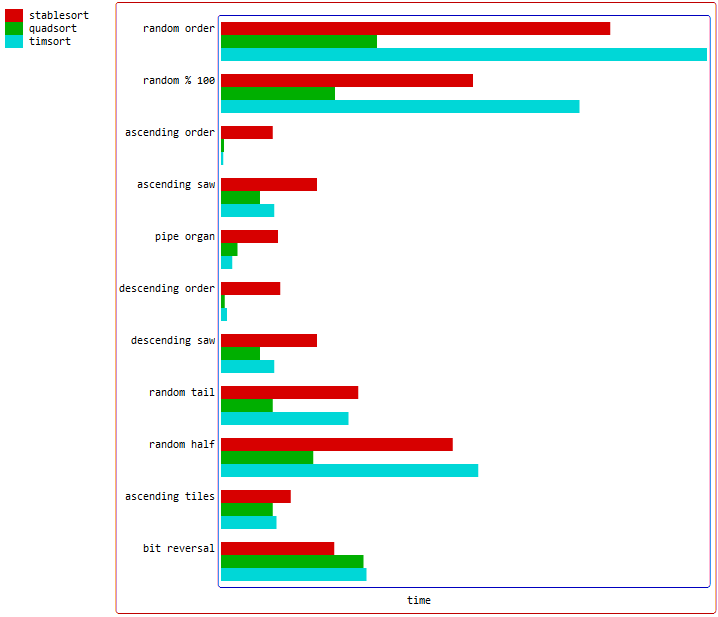
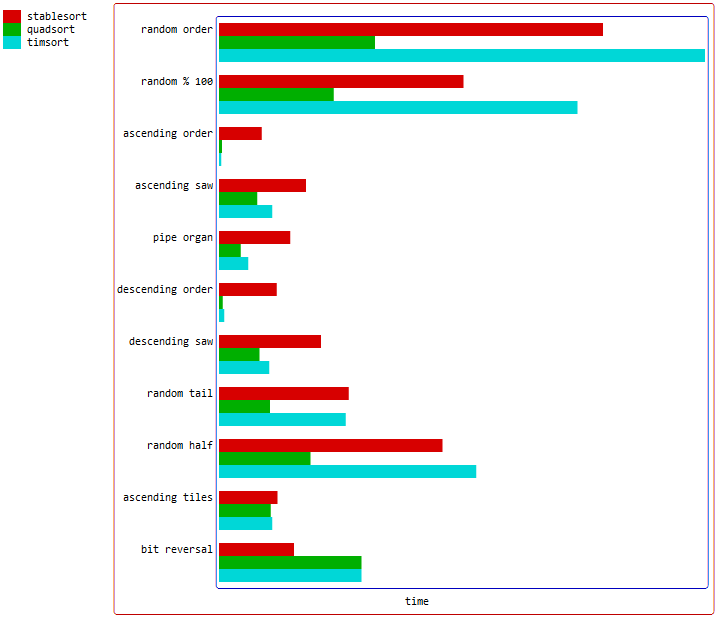
1.1.5.4

diff --git a/src/bench.c b/src/bench.c
@@ -1,5 +1,5 @@
 /*
-	Copyright (C) 2014-2022 Igor van den Hoven ivdhoven@gmail.com
+	Copyright (C) 2014-2023 Igor van den Hoven ivdhoven@gmail.com
 */
 
 /*
@@ -40,7 +40,6 @@
 #include <time.h>
 #include <errno.h>
 #include <math.h>
-
 
 //#define cmp(a,b) (*(a) > *(b)) // uncomment for fast primitive comparisons
 
@@ -258,6 +257,7 @@ void seed_rand(unsigned long long seed)
 void test_sort(void *array, void *unsorted, void *valid, int minimum, int maximum, int samples, int repetitions, SRTFUNC *srt, char *name, char *desc, size_t size, CMPFUNC *cmpf)
 {
 	long long start, end, total, best, average_time, average_comp;
+	char temp[100];
 	size_t sam, max;
 	static char compare = 0;
 	long long *ptla = (long long *) array, *ptlv = valid;
@@ -364,7 +364,7 @@ void test_sort(void *array, void *unsorted, void *valid, int minimum, int maximu
 				case 's' + 'k' * 32 + 'a' * 1024: swap = malloc(max * size); if (size == sizeof(int)) ska_sort_copy(pta, pta + max, (int *) swap); else if (size == sizeof(long long)) ska_sort_copy(ptla, ptla + max, (long long *) swap); else repetitions = 0; free(swap); break;
   #endif
   #ifdef GFX_TIMSORT_HPP
-				case 't' + 'i' * 32 + 'm' * 1024: if (size == sizeof(int)) gfx::timsort(pta, pta + max, cpp_cmp_int); else if (size == sizeof(long long)) gfx::timsort(ptla, ptla + max); else gfx::timsort(ptda, ptda + max); break;
+				case 't' + 'i' * 32 + 'm' * 1024: if (size == sizeof(int)) gfx::timsort(pta, pta + max/*, cpp_cmp_int*/); else if (size == sizeof(long long)) gfx::timsort(ptla, ptla + max); else gfx::timsort(ptda, ptda + max); break;
   #endif
 #endif
 				default:
@@ -419,8 +419,8 @@ void test_sort(void *array, void *unsorted, void *valid, int minimum, int maximu
 		{
 			if (pta[cnt - 1] > pta[cnt])
 			{
-				sprintf(desc, "\e[1;31m%16s\e[0m", "unstable");
-
+				sprintf(temp, "\e[1;31m%16s\e[0m", "unstable");
+				desc = temp;
 				break;
 			}
 		}
@@ -537,7 +537,7 @@ void test_sort(void *array, void *unsorted, void *valid, int minimum, int maximu
 					char **ptsa = (char **) array;
 					char **ptsv = (char **) valid;
 
-					printf("         validate: array[%d] != valid[%d]. (%s vs %s) %s\n", cnt, cnt, (char *) ptsa[cnt], (char *) ptsv[cnt], !strcmp((char *) ptsa[cnt], (char *) ptsv[cnt]) ? "unstable" : "");
+					printf("         validate: array[%d] != valid[%d]. (%s vs %s) %s\n", cnt, cnt, (char *) ptsa[cnt], (char *) ptsv[cnt], !strcmp((char *) ptsa[cnt], (char *) ptsv[cnt]) ? "\e[1;31munstable\e[0m" : "");
 					break;
 				}
 				if (cmpf == cmp_long_ptr)
@@ -545,9 +545,18 @@ void test_sort(void *array, void *unsorted, void *valid, int minimum, int maximu
 					long long **ptla = (long long **) array;
 					long long **ptlv = (long long **) valid;
 
-					printf("         validate: array[%d] != valid[%d]. (%lld vs %lld) %s\n", cnt, cnt, (long long) ptla[cnt], (long long) ptlv[cnt], ((long long) ptla[cnt] != (long long) ptlv[cnt]) ? "unstable" : "");
+					printf("         validate: array[%d] != valid[%d]. (%lld vs %lld) %s\n", cnt, cnt, *ptla[cnt], *ptlv[cnt], (*ptla[cnt] == *ptlv[cnt]) ? "\e[1;31munstable\e[0m" : "");
 					break;
 				}
+				if (cmpf == cmp_int_ptr)
+				{
+					int **ptia = (int **) array;
+					int **ptiv = (int **) valid;
+
+					printf("         validate: array[%d] != valid[%d]. (%d vs %d) %s\n", cnt, cnt, *ptia[cnt], *ptiv[cnt], (*ptia[cnt] == *ptiv[cnt]) ? "\e[1;31munstable\e[0m" : "");
+					break;
+				}
+
 				printf("         validate: array[%d] != valid[%d]. (%lld vs %lld\n", cnt, cnt, ptla[cnt], ptlv[cnt]);
 				break;
 			}
@@ -691,7 +700,7 @@ int main(int argc, char **argv)
 	int samples = 10;
 	int repetitions = 1;
 	int seed = 0;
-	int cnt, rnd, last;
+	int cnt, sum, rnd, last;
 	size_t mem;
 	int *a_array, *r_array, *v_array;
 	char dist[40];
@@ -972,13 +981,13 @@ int main(int argc, char **argv)
 	}
 	run_test(a_array, r_array, v_array, max, max, samples, repetitions, 0, "random % 100", sizeof(int), cmp_int);
 
-
 	// ascending
 
-	for (cnt = 0 ; cnt < mem ; cnt++)
+	for (cnt = sum = 0 ; cnt < mem ; cnt++)
 	{
-		r_array[cnt] = cnt;
+		r_array[cnt] = sum; sum += rand() % 5;
 	}
+
 	run_test(a_array, r_array, v_array, max, max, samples, repetitions, 0, "ascending order", sizeof(int), cmp_int);
 
 	// ascending saw
@@ -997,37 +1006,53 @@ int main(int argc, char **argv)
 
 	// pipe organ
 
-	for (cnt = 0 ; cnt < max / 2 ; cnt++)
+	for (cnt = 0 ; cnt < max ; cnt++)
 	{
-		r_array[cnt] = cnt * 10;
+		r_array[cnt] = rand();
 	}
 
-	for (cnt = max / 2 ; cnt < max ; cnt++)
+	quadsort(r_array + quad0, half1, sizeof(int), cmp_int);
+	qsort(r_array + half1, half2, sizeof(int), cmp_rev);
+
+	for (cnt = half1 + 1 ; cnt < max ; cnt++)
 	{
-		r_array[cnt] = max * 10 - cnt * 10;
+		if (r_array[cnt] >= r_array[cnt - 1])
+		{
+			r_array[cnt] = r_array[cnt - 1] - 1; // guarantee the run is strictly descending
+		}
 	}
 
 	run_test(a_array, r_array, v_array, max, max, samples, repetitions, repetitions, "pipe organ", sizeof(int), cmp_int);
 
 	// descending
 
-	for (cnt = 0 ; cnt < mem ; cnt++)
+	for (cnt = 0, sum = mem * 10 ; cnt < mem ; cnt++)
 	{
-		r_array[cnt] = (mem - cnt);
+		r_array[cnt] = sum; sum -= 1 + rand() % 10;
 	}
 	run_test(a_array, r_array, v_array, max, max, samples, repetitions, 0, "descending order", sizeof(int), cmp_int);
 
 	// descending saw
 
-	for (cnt = 0 ; cnt < max ; cnt++)
+	for (cnt = sum = 0 ; cnt < max ; cnt++)
 	{
 		r_array[cnt] = rand();
 	}
 
-	quadsort(r_array + quad0, quad1, sizeof(int), cmp_rev);
-	quadsort(r_array + quad1, quad2, sizeof(int), cmp_rev);
-	quadsort(r_array + half1, quad3, sizeof(int), cmp_rev);
-	quadsort(r_array + span3, quad4, sizeof(int), cmp_rev);
+	qsort(r_array + quad0, quad1, sizeof(int), cmp_rev);
+	qsort(r_array + quad1, quad2, sizeof(int), cmp_rev);
+	qsort(r_array + half1, quad3, sizeof(int), cmp_rev);
+	qsort(r_array + span3, quad4, sizeof(int), cmp_rev);
+
+	for (cnt = 1 ; cnt < max ; cnt++)
+	{
+		if (cnt == quad1 + 1 || cnt == half1 + 1 || cnt == span3 + 1) continue;
+
+		if (r_array[cnt] >= r_array[cnt - 1])
+		{
+			r_array[cnt] = r_array[cnt - 1] - 1; // guarantee the run is strictly descending
+		}
+	}
 
 	run_test(a_array, r_array, v_array, max, max, samples, repetitions, repetitions, "descending saw", sizeof(int), cmp_int);
 
@@ -1065,7 +1090,7 @@ int main(int argc, char **argv)
 			r_array[cnt] = 33554432 + cnt;
 		}
 	}
-	run_test(a_array, r_array, v_array, max, max, samples, repetitions, 0, "ascending tiles", sizeof(int), cmp_stable);
+	run_test(a_array, r_array, v_array, max, max, samples, repetitions, 0, "ascending tiles", sizeof(int), cmp_int);
 
 	// bit-reversal
 
@@ -1100,22 +1125,29 @@ int main(int argc, char **argv)
 	quadsort(r_array + half1, quad1 * 99 / 100, sizeof(int), cmp_int);
 	quadsort(r_array + span3, quad1 * 99 / 100, sizeof(int), cmp_int);
 
-	run_test(a_array, r_array, v_array, max, max, samples, repetitions, repetitions, "random fragments", sizeof(int), cmp_int);
+	run_test(a_array, r_array, v_array, max, max, samples, repetitions, repetitions, "chaos fragments", sizeof(int), cmp_int);
 
-	// Kryptonite -- Make array 4% sorted, this will make timsort slower than fully random
+	// Make array 6% sorted, this tends to make timsort/powersort slower than fully random
 
 	for (cnt = 0 ; cnt < max ; cnt++)
 	{
 		r_array[cnt] = rand();
 	}
-	quadsort(r_array + quad0, quad1 * 1 / 100, sizeof(int), cmp_int);
-	quadsort(r_array + quad1, quad1 * 1 / 100, sizeof(int), cmp_int);
-	quadsort(r_array + half1, quad1 * 1 / 100, sizeof(int), cmp_int);
-	quadsort(r_array + span3, quad1 * 1 / 100, sizeof(int), cmp_int);
+	quadsort(r_array + quad0 / 1, quad1 * 1 / 100, sizeof(int), cmp_int);
+	quadsort(r_array + quad1 / 2, quad1 * 1 / 100, sizeof(int), cmp_int);
+	quadsort(r_array + quad1 / 1, quad1 * 1 / 100, sizeof(int), cmp_int);
+	quadsort(r_array + half1 / 1, quad1 * 1 / 100, sizeof(int), cmp_int);
+	quadsort(r_array + span3 / 2, quad1 * 1 / 100, sizeof(int), cmp_int);
+	quadsort(r_array + span3 / 1, quad1 * 1 / 100, sizeof(int), cmp_int);
 
-	run_test(a_array, r_array, v_array, max, max, samples, repetitions, repetitions, "ordered fragments", sizeof(int), cmp_int);
+	run_test(a_array, r_array, v_array, max, max, samples, repetitions, repetitions, "order fragments", sizeof(int), cmp_int);
 
 	// various combinations of reverse and ascending order data
+
+	for (cnt = 0 ; cnt < max ; cnt++) r_array[cnt] = rand();
+	quadsort(r_array + quad0, half1, sizeof(int), cmp_int);
+	quadsort(r_array + half1, half2, sizeof(int), cmp_int);
+	run_test(a_array, r_array, v_array, max, max, samples, repetitions, repetitions, "aaaaa aaaaa", sizeof(int), cmp_int);
 
 	for (cnt = 0 ; cnt < max ; cnt++) r_array[cnt] = rand();
 	quadsort(r_array + quad1 / 2, nmemb - quad1 / 2, sizeof(int), cmp_int);

diff --git a/src/quadsort.c b/src/quadsort.c
@@ -515,50 +515,33 @@ void FUNC(galloping_merge)(VAR *dest, VAR *from, size_t left, size_t right, CMPF
 
 void FUNC(quad_merge_block)(VAR *array, VAR *swap, size_t block, CMPFUNC *cmp)
 {
-	VAR *pts, *c, *c_max;
+	VAR *pt1, *pt2, *pt3;
 	size_t block_x_2 = block * 2;
 
-	c_max = array + block;
+	pt1 = array + block;
+	pt2 = pt1 + block;
+	pt3 = pt2 + block;
 
-	if (cmp(c_max - 1, c_max) <= 0)
+	switch ((cmp(pt1 - 1, pt1) <= 0) | (cmp(pt3 - 1, pt3) <= 0) * 2)
 	{
-		c_max += block_x_2;
-
-		if (cmp(c_max - 1, c_max) <= 0)
-		{
-			c_max -= block;
-
-			if (cmp(c_max - 1, c_max) <= 0)
-			{
+		case 0:
+			FUNC(galloping_merge)(swap, array, block, block, cmp);
+			FUNC(galloping_merge)(swap + block_x_2, pt2, block, block, cmp);
+			break;
+		case 1:
+			memcpy(swap, array, block_x_2 * sizeof(VAR));
+			FUNC(galloping_merge)(swap + block_x_2, pt2, block, block, cmp);
+			break;
+		case 2:
+			FUNC(galloping_merge)(swap, array, block, block, cmp);
+			memcpy(swap + block_x_2, pt2, block_x_2 * sizeof(VAR));
+			break;
+		case 3:
+			if (cmp(pt2 - 1, pt2) <= 0)
 				return;
-			}
-			pts = swap;
-
-			c = array;
-
-			do *pts++ = *c++; while (c < c_max); // step 1
-
-			c_max = c + block_x_2;
-
-			do *pts++ = *c++; while (c < c_max); // step 2
-
-			FUNC(galloping_merge)(array, swap, block_x_2, block_x_2, cmp); // step 3
-			return;
-		}
-		pts = swap;
-
-		c = array;
-		c_max = array + block_x_2;
-
-		do *pts++ = *c++; while (c < c_max); // step 1
+			memcpy(swap, array, block_x_2 * 2 * sizeof(VAR));
 	}
-	else
-	{
-		FUNC(galloping_merge)(swap, array, block, block, cmp); // step 1
-	}
-	FUNC(galloping_merge)(swap + block_x_2, array + block_x_2, block, block, cmp); // step 2
-
-	FUNC(galloping_merge)(array, swap, block_x_2, block_x_2, cmp); // step 3
+	FUNC(galloping_merge)(array, swap, block_x_2, block_x_2, cmp);
 }
 
 size_t FUNC(quad_merge)(VAR *array, VAR *swap, size_t swap_size, size_t nmemb, size_t block, CMPFUNC *cmp)
@@ -651,13 +634,13 @@ void FUNC(partial_backward_merge)(VAR *array, VAR *swap, size_t nmemb, size_t bl
 
 	while (s > swap + 1 && m > array + 1)
 	{
-		if (cmp(m - 1, s) > 0)
-		{
-			*e-- = *m--; *e-- = *m--;
-		}
-		else if (cmp(m, s - 1) <= 0)
+		if (cmp(m, s - 1) <= 0)
 		{
 			*e-- = *s--; *e-- = *s--;
+		}
+		else if (cmp(m - 1, s) > 0)
+		{
+			*e-- = *m--; *e-- = *m--;
 		}
 		else
 		{
